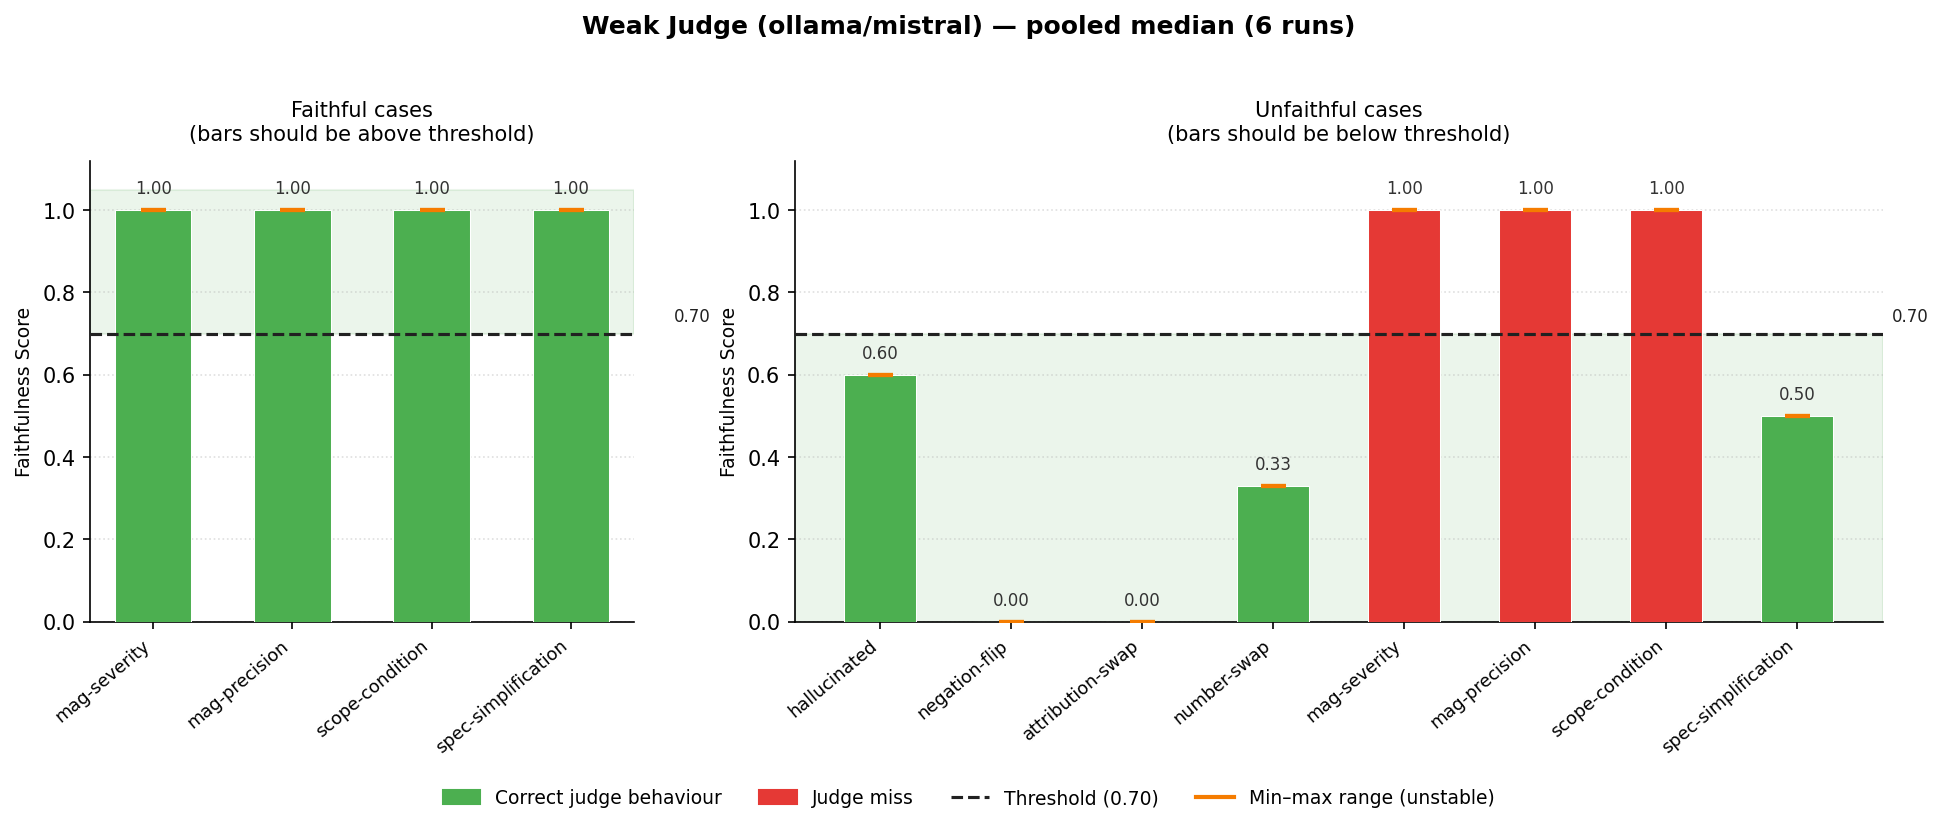
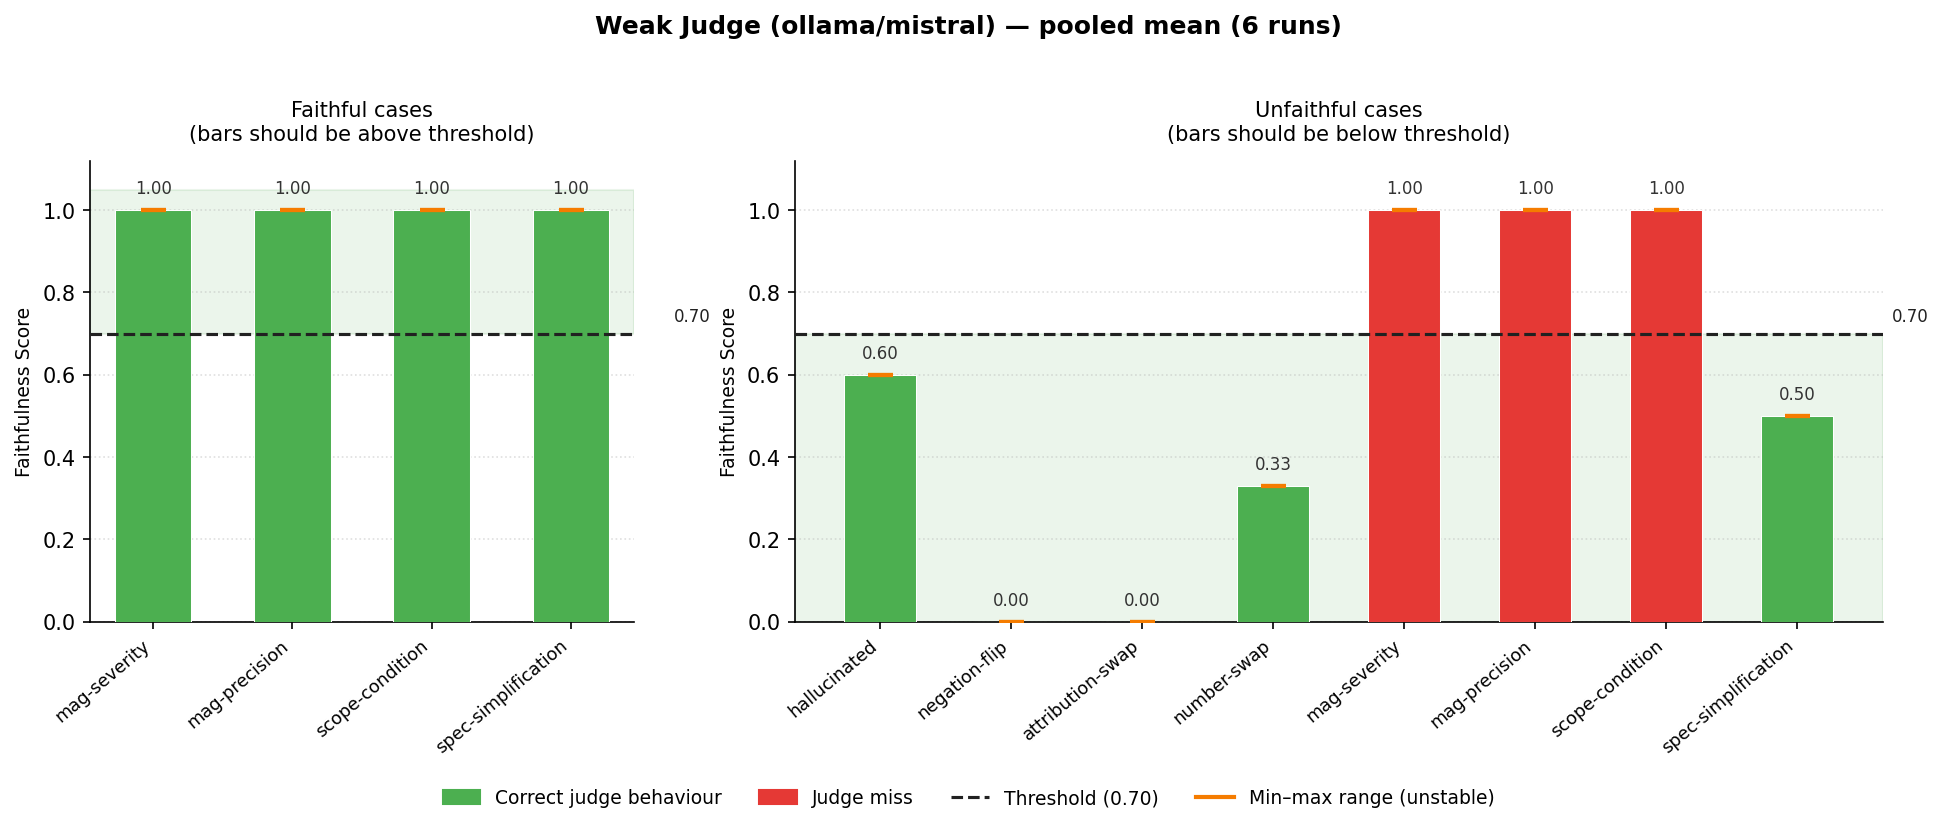
Switch analysis scripts and figures to mean aggregation
The doc reports mean [min–max] per case, but the generation and audit
scripts were still computing medians. This brings tooling into sync:
model_doc_audit.py now outputs means with fails/flips/wrong N/3 counts
and a new pooled 6-run calibration section; calibration and heatmap
charts updated to mean scores, titles, and legends; all three figures
regenerated. Also corrects the number_swap strong-judge unfaithful
score from 0.50 (median) to 0.53 (mean, scores are not symmetric).

Changed region(s): [[0.3088, 0.0, 0.7102, 0.0602]]

diff --git a/scripts/model_doc_audit.py b/scripts/model_doc_audit.py
@@ -3,16 +3,15 @@
 reports/aggregated.json.
 
 Loads the per-case × per-config × per-run aggregated scores and dumps the
-raw data used by the analysis doc: medians, ranges, instability flags,
-sentiment/conflict labels, adversarial results, calibration pass/fail
-counts, and summary rows. Run this whenever the analysis doc is edited
-to cross-check numeric cells against canonical data.
+raw data used by the analysis doc: per-case means, ranges, instability
+flags, sentiment/conflict labels, adversarial results, calibration
+correctness counts, and summary rows. Run this whenever the analysis doc
+is edited to cross-check numeric cells against canonical data.
 
 Usage:
     python scripts/model_doc_audit.py
 """
 import json
-import statistics
 from pathlib import Path
 
 ROOT = Path(__file__).resolve().parent.parent
@@ -22,8 +21,8 @@ CONFIGS = ["SS", "SW", "WS", "WW"]
 THRESHOLD = 0.70
 
 
-def median(xs):
-    return statistics.median(xs)
+def mean(xs):
+    return sum(xs) / len(xs)
 
 
 def fmt_num(x):
@@ -58,7 +57,7 @@ def entry(case_id, config):
     robustness = [r.get("robustness") for r in runs]
     return {
         "scores": scores,
-        "median": median(scores),
+        "mean": mean(scores),
         "min": min(scores),
         "max": max(scores),
         "unstable": max(scores) - min(scores) > 0.2,
@@ -83,7 +82,8 @@ def print_table(title, cases):
             e = entry(case_id, cfg)
             star = "*" if e["unstable"] else ""
             row.append(
-                f"{fmt_num(e['median'])} [{fmt_num(e['min'])}-{fmt_num(e['max'])}]{star}"
+                f"{fmt_num(e['mean'])} [{fmt_num(e['min'])}-{fmt_num(e['max'])}]{star} "
+                f"fails {e['fails']}/3"
             )
         print(" | ".join(row))
 
@@ -132,16 +132,21 @@ def print_adversarial():
         print(case_id)
         for cfg in CONFIGS:
             e = entry(case_id, cfg)
+            flips = e["robustness_fails"]
             print(
                 " ",
                 cfg,
                 e["scores"],
-                "median",
-                fmt_num(e["median"]),
+                "mean",
+                fmt_num(e["mean"]),
+                "fails",
+                f"{e['fails']}/3",
                 "faith_result",
                 e["results"],
                 "robustness",
                 e["robustness"],
+                "flips",
+                f"{flips}/3",
                 "unstable",
                 e["unstable"],
             )
@@ -154,18 +159,46 @@ def print_calibration():
         print(case_id, "expected", expected)
         for cfg in CONFIGS:
             e = entry(case_id, cfg)
+            wrong = e["fails"] if expected else e["passes"]
             print(
                 " ",
                 cfg,
                 e["scores"],
-                "median",
-                fmt_num(e["median"]),
+                "mean",
+                fmt_num(e["mean"]),
                 "passes",
                 e["passes"],
                 "fails",
                 e["fails"],
+                "wrong",
+                f"{wrong}/3",
                 "unstable",
                 e["unstable"],
+            )
+    print("\n## Calibration pooled (6-run wrong N/6)")
+    for case_id in CALIBRATION:
+        expected = META[case_id]["expected_faithfulness_pass"]
+        # Strong judge: SS + WS, Weak judge: SW + WW
+        for label, cfgs in [("strong", ["SS", "WS"]), ("weak", ["SW", "WW"])]:
+            scores = []
+            wrong = 0
+            for cfg in cfgs:
+                e = entry(case_id, cfg)
+                scores.extend(e["scores"])
+                wrong += e["fails"] if expected else e["passes"]
+            pooled_mean = mean(scores)
+            pooled_min = min(scores)
+            pooled_max = max(scores)
+            print(
+                " ",
+                case_id,
+                label,
+                "mean",
+                fmt_num(pooled_mean),
+                "range",
+                f"[{fmt_num(pooled_min)}-{fmt_num(pooled_max)}]",
+                "wrong",
+                f"{wrong}/6",
             )
 
 
@@ -196,11 +229,11 @@ def print_failure_counts():
 
 
 def print_ss_sub1():
-    print("\n## SS normal/adversarial medians below 1.00")
+    print("\n## SS normal/adversarial means below 1.00")
     for case_id in NORMAL + ADVERSARIAL:
-        med = entry(case_id, "SS")["median"]
-        if med < 1.0:
-            print(case_id, fmt_num(med), entry(case_id, "SS")["scores"])
+        e = entry(case_id, "SS")
+        if e["mean"] < 1.0:
+            print(case_id, fmt_num(e["mean"]), e["scores"], f"fails {e['fails']}/3")
 
 
 def print_unstable():
@@ -217,14 +250,14 @@ def print_summary_rows():
     for cases, name in [(NORMAL, "normal"), (ADVERSARIAL, "adversarial"), (CALIBRATION, "calibration")]:
         print(name)
         for cfg in CONFIGS:
-            meds = [entry(c, cfg)["median"] for c in cases]
+            means = [entry(c, cfg)["mean"] for c in cases]
             print(
                 " ",
                 cfg,
-                "median_of_medians",
-                fmt_num(median(meds)),
-                "min_of_medians",
-                fmt_num(min(meds)),
+                "mean_of_means",
+                fmt_num(mean(means)),
+                "min_of_means",
+                fmt_num(min(means)),
                 "passes",
                 sum(entry(c, cfg)["passes"] for c in cases),
                 "fails",

diff --git a/scripts/generate_heatmap.py b/scripts/generate_heatmap.py
@@ -19,7 +19,7 @@ OUT_DIR = Path(__file__).resolve().parent.parent / "docs" / "images"
 CONFIGS = ["SS", "SW", "WS", "WW"]
 
 # Each row: (label, SS, SW, WS, WW, unstable_col_indices)
-# Scores are medians across 3 runs.
+# Scores are means across 3 runs.
 # unstable = max−min > 0.2 for that cell.
 CASES: list[tuple[str, float, float, float, float, set[int]]] = [
     ("positive_baseline",                1.00, 1.00, 1.00, 1.00, set()),
@@ -29,15 +29,15 @@ CASES: list[tuple[str, float, float, float, float, set[int]]] = [
     ("positive_conflicting_logistics",   1.00, 0.83, 1.00, 1.00, set()),
     ("negative_conflicting_borderline",  0.90, 1.00, 1.00, 1.00, set()),
     ("negative_numeric_shortfall",       1.00, 1.00, 0.80, 1.00, set()),
-    ("negative_attribution_multiparty",  1.00, 1.00, 1.00, 0.75, set()),
-    ("positive_negation_double",         1.00, 0.80, 1.00, 0.67, {2}),  # WS unstable
-    ("negative_negation_rhetorical",     1.00, 1.00, 1.00, 1.00, set()),
+    ("negative_attribution_multiparty",  1.00, 1.00, 0.93, 0.75, set()),
+    ("positive_negation_double",         1.00, 0.80, 0.89, 0.67, {2}),  # WS unstable
+    ("negative_negation_rhetorical",     0.93, 1.00, 1.00, 1.00, set()),
     ("negative_distractor_delayed_failure", 1.00, 1.00, 1.00, 1.00, set()),
-    ("negative_timeline_shipping",       0.71, 1.00, 1.00, 1.00, set()),
+    ("negative_timeline_shipping",       0.76, 1.00, 1.00, 1.00, set()),
     ("negative_conflicting_noise",       1.00, 1.00, 0.86, 1.00, set()),
-    ("positive_conflicting_override",    0.89, 1.00, 1.00, 0.80, set()),
-    ("positive_conflicting_conditional", 1.00, 1.00, 1.00, 1.00, {1}),  # SW unstable
-    ("negative_sarcasm",                 0.71, 0.75, 0.00, 1.00, {1}),   # SW unstable
+    ("positive_conflicting_override",    0.86, 0.96, 1.00, 0.80, set()),
+    ("positive_conflicting_conditional", 1.00, 0.87, 1.00, 1.00, {1}),  # SW unstable
+    ("negative_sarcasm",                 0.71, 0.83, 0.00, 1.00, {1}),   # SW unstable
 ]
 
 
@@ -55,7 +55,7 @@ def main() -> None:
     im = ax.imshow(scores, cmap=cmap, norm=norm, aspect="auto")
 
     cbar = fig.colorbar(im, ax=ax, pad=0.02, fraction=0.046)
-    cbar.set_label("Faithfulness score (median)", fontsize=6.5)
+    cbar.set_label("Faithfulness score (mean)", fontsize=6.5)
     cbar.ax.axhline(y=THRESHOLD, color="#212121", linestyle="--", linewidth=1.5)
     cbar.ax.text(
         -0.1, THRESHOLD, "0.70 ─",
@@ -96,8 +96,8 @@ def main() -> None:
     ax.tick_params(which="both", length=0)
 
     ax.set_title(
-        "Normal-case faithfulness (median, 3 runs)\n"
-        "bold = below 0.70  ·  * = unstable (range > 0.2)",
+        "Normal-case faithfulness (mean, 3 runs)\n"
+        "* = unstable (range > 0.2)  ·  bold = mean below 0.70",
         fontsize=7,
         pad=14,
     )

diff --git a/scripts/generate_calibration_charts.py b/scripts/generate_calibration_charts.py
@@ -29,23 +29,24 @@ UNFAITHFUL_LABELS = [
     "spec-simplification",
 ]
 
-# Pooled medians across SS+WS (strong judge, 6 runs) and SW+WW (weak judge, 6 runs).
+# Pooled means across SS+WS (strong judge, 6 runs) and SW+WW (weak judge, 6 runs).
 # Calibration cases use pre-written summaries so the summariser plays no role;
 # pooling eliminates the misleading implication that SS/WS differences are summariser-driven.
 # Ranges are (min, max) for unstable entries (max−min > 0.2), None for stable ones.
 CONFIGS = {
     "strong": {
-        "title": "Strong Judge (claude-sonnet-4-6) — pooled median (6 runs)",
+        "title": "Strong Judge (claude-sonnet-4-6) — pooled mean (6 runs)",
         "filename": "calibration_strong_judge.png",
-        # spec-simplification: SS [1,1,0.5] + WS [1,0.5,0.5] → sorted [0.5,0.5,0.5,1,1,1] → 0.75
+        # spec-simplification: SS [1,1,0.5] + WS [1,0.5,0.5] → mean = 4.5/6 = 0.75
         "faithful_scores": [1.00, 1.00, 1.00, 0.75],
         "faithful_ranges": [None, None, None, (0.50, 1.00)],
-        # mag-severity: SS [0,1,1] + WS [0,0,1] → sorted [0,0,0,1,1,1] → 0.50
-        "unfaithful_scores": [0.60, 0.00, 0.00, 0.50, 0.50, 1.00, 0.50, 0.50],
+        # mag-severity: SS [0,1,1] + WS [0,0,1] → mean = 3/6 = 0.50
+        # number-swap: mean = 0.53 (vs median 0.50; scores not symmetric)
+        "unfaithful_scores": [0.60, 0.00, 0.00, 0.53, 0.50, 1.00, 0.50, 0.50],
         "unfaithful_ranges": [None, None, None, None, (0.00, 1.00), None, None, None],
     },
     "weak": {
-        "title": "Weak Judge (ollama/mistral) — pooled median (6 runs)",
+        "title": "Weak Judge (ollama/mistral) — pooled mean (6 runs)",
         "filename": "calibration_weak_judge.png",
         "faithful_scores": [1.00, 1.00, 1.00, 1.00],
         "faithful_ranges": [None, None, None, None],
